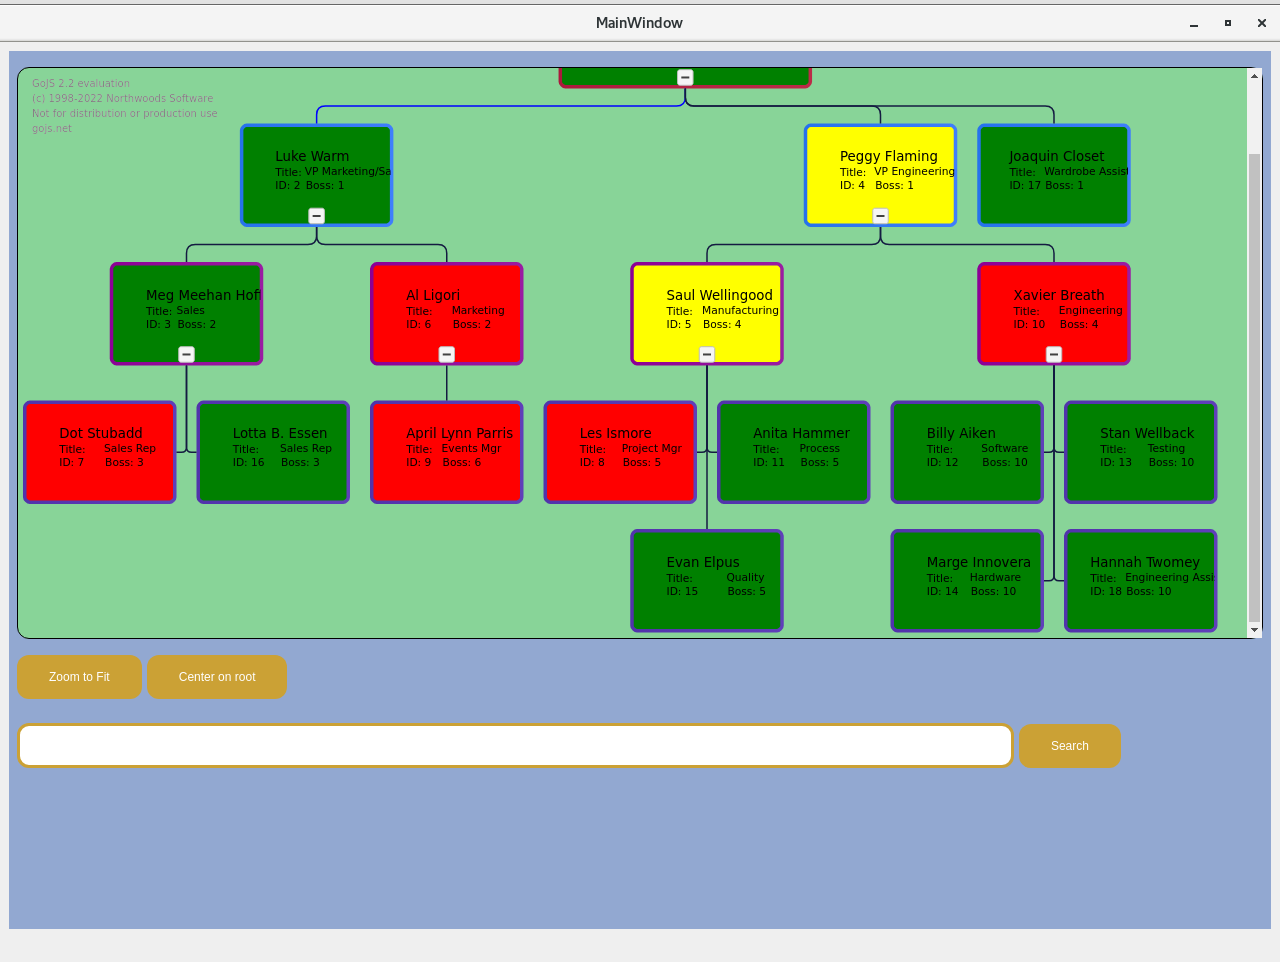
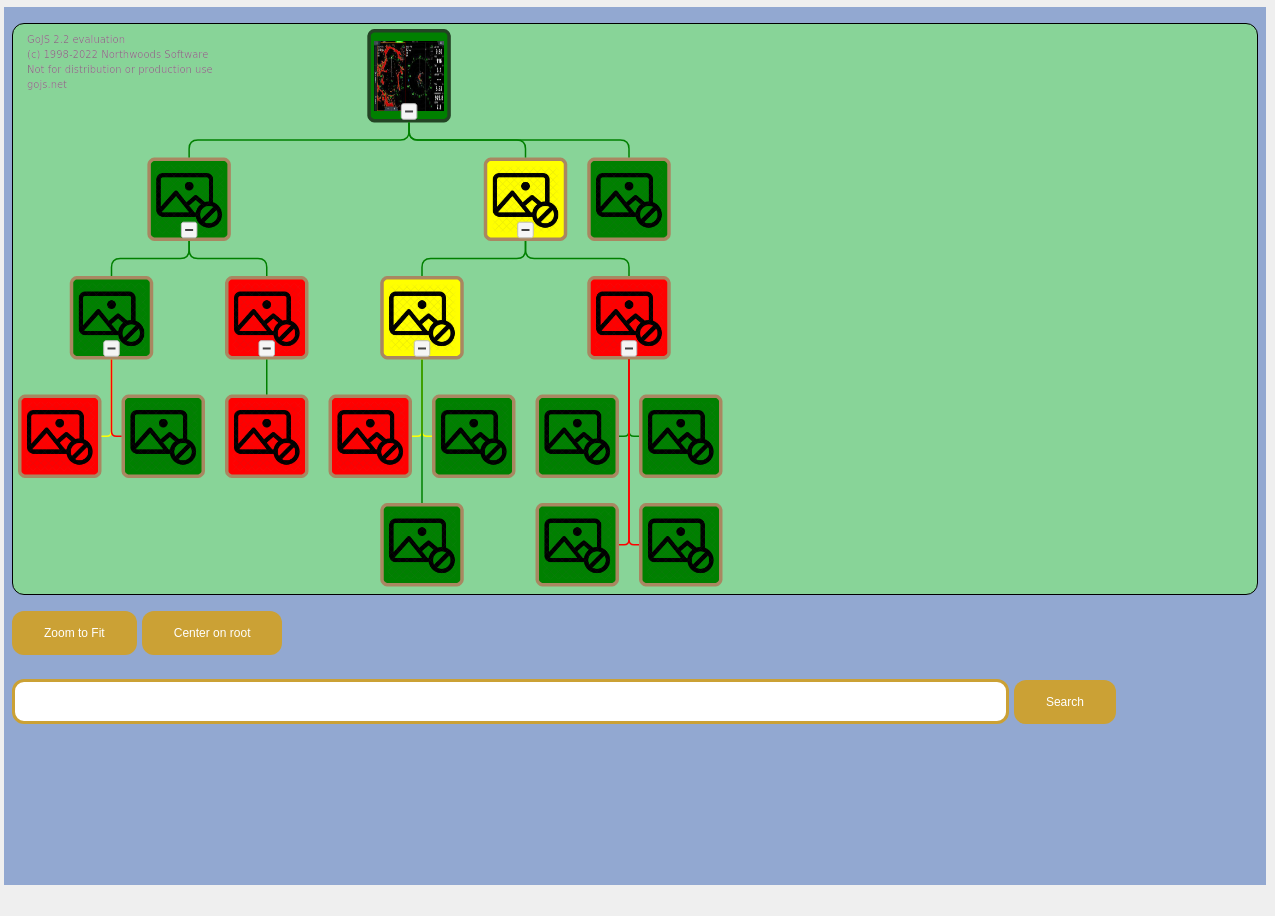
add tooltips

diff --git a/orgChartEditor.html b/orgChartEditor.html
@@ -43,7 +43,7 @@ var jsonfile;
       var pinkgrad = $(go.Brush, "Linear", { 0: "rgb(255, 0, 0)", 1: "rgb(255, 0, 0)" });
       function genderWidthConverter(id_image) {
              if (id_image === null) return 400;
-             return 250;
+             return 90;
             }
       // manage boss info manually when a node or link is deleted from the diagram
       myFullDiagram.addDiagramListener("SelectionDeleting", e => {
@@ -67,27 +67,31 @@ var jsonfile;
         myFullDiagram.commitTransaction("clear boss");
       });
 
-      var levelColors = ["#AC193D", "#2672EC", "#8C0095", "#5133AB",
-        "#008299", "#D24726", "#008A00", "#094AB2"];
-
-      // override TreeLayout.commitNodes to also modify the background brush based on the tree depth level
-      myFullDiagram.layout.commitNodes = function() {
-        go.TreeLayout.prototype.commitNodes.call(myFullDiagram.layout);  // do the standard behavior
-        // then go through all of the vertexes and set their corresponding node's Shape.fill
-        // to a brush dependent on the TreeVertex.level value
-        myFullDiagram.layout.network.vertexes.each(v => {
-          if (v.node) {
-            var level = v.level % (levelColors.length);
-            var color = levelColors[level];
-            var shape = v.node.findObject("SHAPE");
-            if (shape) shape.stroke = $(go.Brush, "Linear", { 0: color, 1: go.Brush.lightenBy(color, 0.05), start: go.Spot.Left, end: go.Spot.Right });
-          }
-        });
-      };
 
 
 
-      // this is used to determine feedback during drags
+
+function tooltipTextConverter(person) {
+       var str = "";
+       str += "titel: " + person.title;
+       str += "\nName :" + person.name;
+       if (person.key !== undefined) str += "\nID: " + person.key;
+       if (person.parent !== undefined) str += "\nBoss: " + person.parent;
+       return str;
+     }
+
+     // define tooltips for nodes
+     var tooltiptemplate =
+       $("ToolTip",
+         { "Border.fill": "whitesmoke", "Border.stroke": "black" },
+         $(go.TextBlock,
+           {
+             font: "bold 8pt Helvetica, bold Arial, sans-serif",
+             wrap: go.TextBlock.WrapFit,
+             margin: 5
+           },
+           new go.Binding("text", "", tooltipTextConverter))
+       );
 
 
       // This function provides a common style for most of the TextBlocks.
@@ -136,72 +140,35 @@ var jsonfile;
                       }
           },
           // for sorting, have the Node.text be the data.name
+          { deletable: false, toolTip: tooltiptemplate },
           new go.Binding("text", "name"),
           // bind the Part.layerName to control the Node's layer depending on whether it isSelected
           new go.Binding("layerName", "isSelected", sel => sel ? "Foreground" : "").ofObject(),
           // define the node's outer shape
           $(go.Shape, "RoundedRectangle",
             {
-                height: 100,
-                width :150,
+                height: 80,
+                width :80,
               name: "SHAPE", fill: pinkgrad, stroke: 'white', strokeWidth: 3.5,
               // set the port properties:
               portId: "" ,cursor: "pointer"
             },
-            new go.Binding("width","id_image",genderWidthConverter),
+            new go.Binding("stroke","colorborder"),
+            new go.Binding("height","id_image",genderWidthConverter),
              new go.Binding("fill", "color")),
-          $(go.Panel, "Horizontal",
+
+          $(go.Panel, "Vertical",
+
             $(go.Picture,
               {
                 name: "Picture",
-                desiredSize: new go.Size(50, 50),
-                margin: 1.5,
+                desiredSize: new go.Size(70, 70),
+                margin: 0.1,
+                source :"qrc:/image/not_image.png"
               },
               new go.Binding("source", "id_image", findHeadShot)),
-            // define the panel where the text will appear
-            $(go.Panel, "Table",
-              {
-                minSize: new go.Size(130, NaN),
-                maxSize: new go.Size(150, NaN),
-                margin: new go.Margin(6, 10, 0, 6),
-                defaultAlignment: go.Spot.Left
-              },
-              $(go.RowColumnDefinition, { column: 2, width: 4 }),
-              $(go.TextBlock, textStyle(),  // the name
-                {
-                  row: 0, column: 0, columnSpan: 5,
-                  font: "10pt Segoe UI,sans-serif",
-                  editable: true, isMultiline: false,
-                  minSize: new go.Size(10, 16)
-                },
-                new go.Binding("text", "name").makeTwoWay()),
-              $(go.TextBlock, "Title: ", textStyle(),
-                { row: 1, column: 0 }),
-              $(go.TextBlock, textStyle(),
-                {
-                  row: 1, column: 1, columnSpan: 4,
-                  editable: true, isMultiline: false,
-                  minSize: new go.Size(10, 14),
-                  margin: new go.Margin(0, 0, 0, 3)
-                },
-                new go.Binding("text", "title").makeTwoWay()),
-              $(go.TextBlock, textStyle(),
-                { row: 2, column: 0 },
-                new go.Binding("text", "key", v => "ID: " + v)),
-              $(go.TextBlock, textStyle(),
-                { name: "boss", row: 2, column: 3, }, // we include a name so we can access this TextBlock when deleting Nodes/Links
-                new go.Binding("text", "parent", v => "Boss: " + v)),
-              $(go.TextBlock, textStyle(),  // the comments
-                {
-                  row: 3, column: 0, columnSpan: 5,
-                  font: "italic 9pt sans-serif",
-                  wrap: go.TextBlock.WrapFit,
-                  editable: true,  // by default newlines are allowed
-                  minSize: new go.Size(10, 14)
-                },
-                new go.Binding("text", "comments").makeTwoWay()),
 
-            ),  // end Table Panel
+
 
             ), // end Horizontal Panel
              $("TreeExpanderButton",{alignment :go.Spot.Bottom})
@@ -270,7 +237,7 @@ var jsonfile;
         // define the Link template
         myFullDiagram.linkTemplate =
           $(go.Link, go.Link.Orthogonal,
-            { corner: 20 },
+            { corner: 40 },
             $(go.Shape, { strokeWidth: 1.5, stroke: "#141B41" },
             new go.Binding("stroke", "colorlink")
             ));  // the link shape
@@ -329,22 +296,24 @@ var jsonfile;
 
           myFullDiagram.commitTransaction("highlight search");
         }
+        window.addEventListener('DOMContentLoaded', init);
+        window.onload=function(){new QWebChannel(qt.webChannelTransport, function (channel) {
+            // all published objects are available in channel.objects under
+            // the identifier set in their attached WebChannel.id property
+                 jsonfile =channel.objects.foo;
+                var dManager = channel.objects.bar;
 
-    window.addEventListener('DOMContentLoaded', init);
-    window.onload=function(){new QWebChannel(qt.webChannelTransport, function (channel) {
-        // all published objects are available in channel.objects under
-        // the identifier set in their attached WebChannel.id property
-             jsonfile =channel.objects.foo;
-            var dManager = channel.objects.bar;
 
-               myFullDiagram.model =new go.TreeModel(jsonfile.valueJson)
+                   myFullDiagram.model =new go.TreeModel(jsonfile.valueJson)
 
-             //jQuery.getJSON(jsonfile.filedata,function(data){
-             //myFullDiagram.model =new go.TreeModel(data)});
+                 //jQuery.getJSON(jsonfile.filedata,function(data){
+                 //myFullDiagram.model =new go.TreeModel(data)});
 
-        });
+            });
 
-        }
+            };
+
+
   </script>
 <style>
 input[type=search] {
